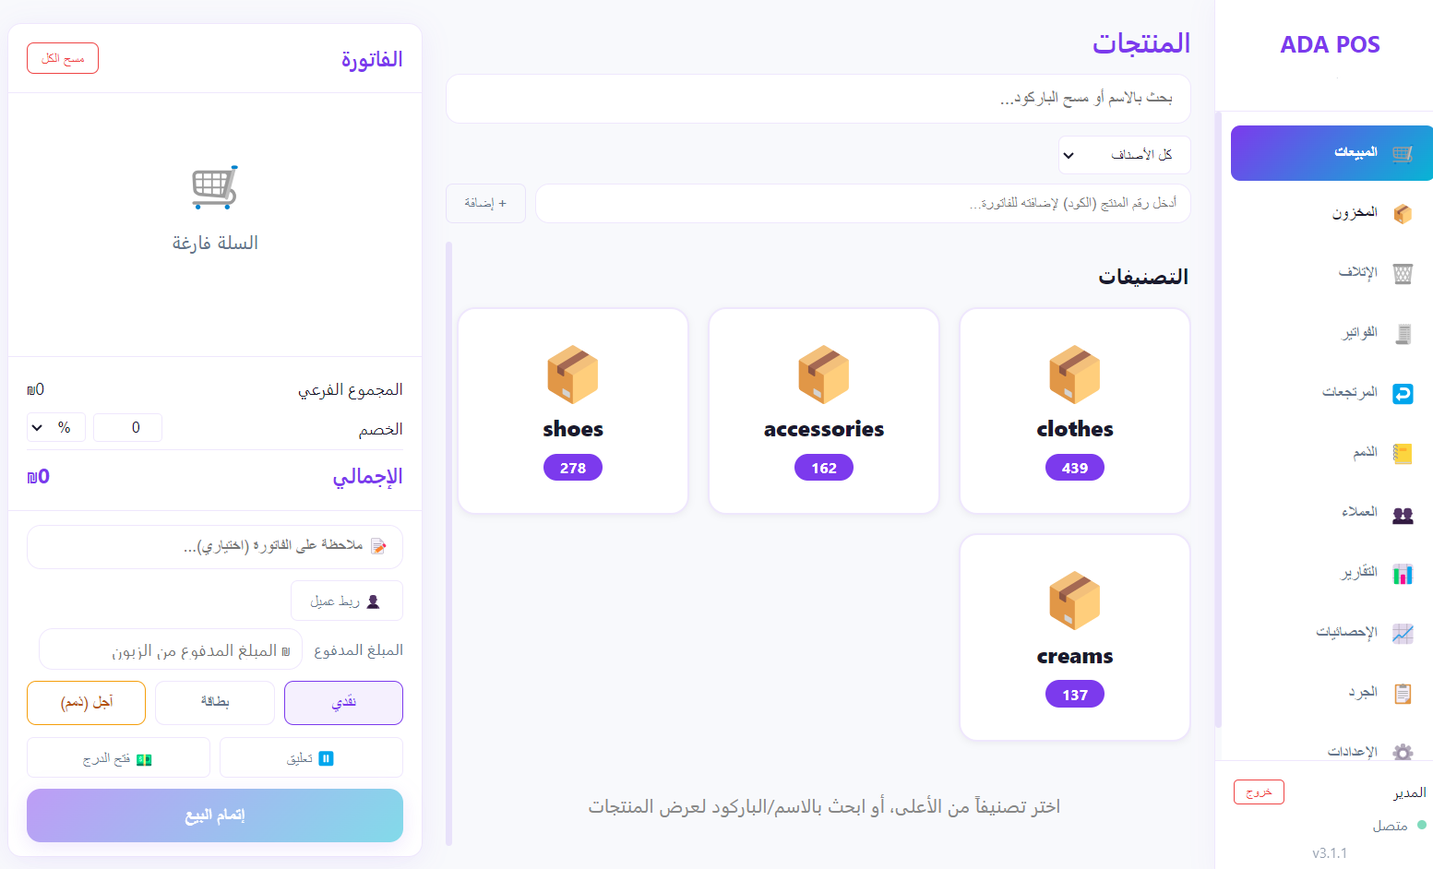
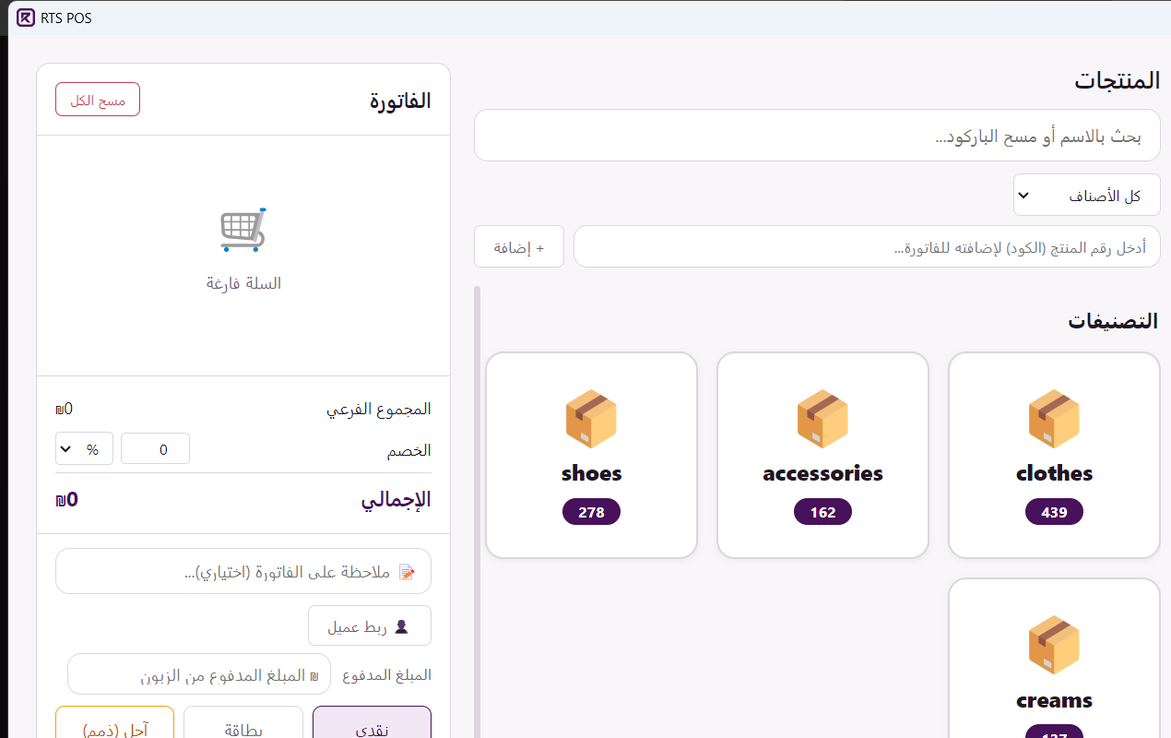
Launch RTS POS 4.0 on the company website
Copilot-Session: 97819282-63b3-4cd0-8490-9d07de37e0cd

diff --git a/public/app.js b/public/app.js
@@ -49,29 +49,30 @@ Object.assign(copy.ar, {
   contactTitle: "لنصنع شيئاً<br>يستحق الاستخدام.",
   contactText: "شاركنا احتياجك. سنفتح رسالتك في WhatsApp لتراجعها قبل الإرسال.",
   fieldRequired: "أدخل قيمة صحيحة لهذا الحقل.",
-  heroNote: "واجهة التطبيق الحالية",
+  heroNote: "واجهة RTS POS الجديدة",
   sandboxTitle: "جرّب فكرة البيع حسب نشاطك",
   sectorCoverage: "للسوبرماركت، المحلات، المطاعم، المقاهي، متاجر الملابس، ومختلف الأنشطة التجارية.",
   faq2Q: "هل الصور من التطبيق الفعلي؟",
-  faq2A: "نعم، صور المعرض من تطبيق ADA POS الحالي. أما التجربة التفاعلية فهي مثال مبسط ولا تعالج أي عملية دفع.",
+  faq2A: "نعم، صورة المعرض من تطبيق RTS POS 4.0 الفعلي. أما التجربة التفاعلية فهي مثال مبسط ولا تعالج أي عملية دفع.",
   designExamplesAria: "أمثلة تصميم توضيحية",
   designExamplesTitle: "هوية واحدة.<br>تجربة متكاملة.",
   designExamplesText: "من واجهة الموقع إلى تفاصيل التطبيق، نصمم تجربة متناسقة على كل شاشة. تصورات توضيحية لما يمكن أن نبنيه لعلامتك.",
   sitePreviewTitle: "مكان واضح لعلامتك.",
   phonePreviewTitle: "مهمة اليوم",
   retry: "إعادة المحاولة",
-  actualAppAria: "لقطة شاشة فعلية من تطبيق ADA POS",
+  actualAppAria: "لقطة شاشة فعلية من تطبيق RTS POS",
   insideApp: "من داخل التطبيق",
   openImage: "عرض بالحجم الكامل",
   closeImage: "إغلاق",
-  galleryAria: "معرض لقطات فعلية من ADA POS",
+  galleryAria: "لقطة فعلية من تطبيق RTS POS",
   galleryTabsAria: "اختيار لقطة شاشة",
   galleryTag: "من داخل التطبيق",
   galleryTitle: "كل تفاصيل عملك.<br>في مكان واحد.",
-  galleryText: "المبيعات والفواتير والعملاء والمخزون والإعدادات. هذه لقطات فعلية من تطبيقنا، مع إخفاء بعض المعرّفات لحماية الخصوصية.",
+  galleryText: "واجهة بيع فعلية من RTS POS 4.0 بهويته الجديدة، مصممة للسرعة والوضوح أثناء العمل اليومي.",
   gallerySales: "المبيعات",
-  galleryCheckout: "الدفع",
-  gallerySettings: "الإعدادات",
+  downloadTitle: "RTS POS 4.0.",
+  downloadText: "هوية جديدة وواجهة تشغيل واضحة للمبيعات والمخزون والفواتير وإدارة نشاطك.",
+  downloadCta: "تنزيل RTS POS لـ Windows",
   mobilePreviewAria: "تصور توضيحي لتطبيق هاتف مخصص"
 });
 Object.assign(copy.en, {
@@ -86,36 +87,35 @@ Object.assign(copy.en, {
   contactTitle: "Let’s build something<br>worth using.",
   contactText: "Share what you need. We will open your message in WhatsApp so you can review it before sending.",
   fieldRequired: "Enter a valid value for this field.",
-  heroNote: "The current application",
+  heroNote: "The new RTS POS interface",
   sandboxTitle: "Explore a sales demo for your business",
   sectorCoverage: "For supermarkets, retail shops, restaurants, coffee shops, clothing stores, and businesses of every kind.",
   faq2Q: "Are these images from the real application?",
-  faq2A: "Yes. The gallery shows the current ADA POS application. The interactive sales demo is a simplified illustration and does not process payments.",
+  faq2A: "Yes. The gallery shows the real RTS POS 4.0 application. The interactive sales demo is a simplified illustration and does not process payments.",
   designExamplesAria: "Illustrative design examples",
   designExamplesTitle: "One identity.<br>Every screen.",
   designExamplesText: "From the website to the smallest app interaction, we design a connected experience. Illustrative concepts of what we can build for your brand.",
   sitePreviewTitle: "A clear place for your brand.",
   phonePreviewTitle: "Today’s task",
   retry: "Try again",
-  actualAppAria: "Actual ADA POS application screenshot",
+  actualAppAria: "Actual RTS POS application screenshot",
   insideApp: "Inside the actual app",
   openImage: "View full size",
   closeImage: "Close",
-  galleryAria: "Gallery of actual ADA POS screenshots",
+  galleryAria: "Actual RTS POS application screenshot",
   galleryTabsAria: "Choose a screenshot",
   galleryTag: "Inside the actual app",
   galleryTitle: "Your daily business.<br>In one place.",
-  galleryText: "Sales, invoices, customers, inventory, and settings. These are real application screens, with some identifiers obscured for privacy.",
+  galleryText: "A real RTS POS 4.0 sales interface in its new identity, designed for speed and clarity during daily work.",
   gallerySales: "Sales",
-  galleryCheckout: "Checkout",
-  gallerySettings: "Settings",
+  downloadTitle: "RTS POS 4.0.",
+  downloadText: "A new identity and a clear workspace for sales, inventory, invoices, and business operations.",
+  downloadCta: "Download RTS POS for Windows",
   mobilePreviewAria: "Illustrative custom mobile application preview"
 });
 sectorData.ar.other.discussion = "لن نفترض أي تفاصيل مسبقاً. أخبرنا كيف تسير عملياتك ونناقش ما يناسبها.";
 const screenshots = {
-  sales: { src: "/assets/pos-sales.png", ar: "لقطة شاشة فعلية من شاشة المبيعات في ADA POS", en: "Actual ADA POS sales screen screenshot" },
-  checkout: { src: "/assets/pos-checkout.png", ar: "لقطة شاشة فعلية من شاشة الدفع في ADA POS", en: "Actual ADA POS checkout screen screenshot" },
-  settings: { src: "/assets/pos-settings.png", ar: "لقطة شاشة فعلية من شاشة الإعدادات في ADA POS", en: "Actual ADA POS settings screen screenshot" }
+  sales: { src: "/assets/pos-sales.png", ar: "لقطة شاشة فعلية من شاشة المبيعات في RTS POS", en: "Actual RTS POS sales screen screenshot" }
 };
 let activeScreenshot = "sales";
 let dialogTrigger;
@@ -125,8 +125,8 @@ const subpageCopy = {
     en: { title: "RTS | Privacy", back: "Back to site", tag: "RTS · PRIVACY", heading: "Your privacy, clearly.", collectionH: "What does this site collect?", collection: "The public site uses no analytics or marketing cookies. Contact-form details are not stored on the site server; choosing to submit prepares a message and opens WhatsApp so you can review it before sending.", whatsappH: "WhatsApp", whatsapp: "Continuing from the contact form sends the message to WhatsApp, a third-party service governed by its own privacy policy. Do not submit the form if you do not want to share its content through WhatsApp.", cookiesH: "Cookies and the admin session", cookies: "The public site sets no cookies. The private admin area uses a necessary administrative session cookie to keep an administrator signed in.", hostingH: "Hosting", hosting: "Cloudflare processes normal connection and security data, including IP address, to serve and protect the site. We do not use this for marketing analytics.", updatesH: "Policy updates", updates: "We may update this page if the site’s operation changes. The updated version will be published here.", return: "Back to RTS", privacy: "Privacy" }
   },
   download: {
-    ar: { title: "RTS | تنزيل ADA POS", back: "العودة للموقع", tag: "RTS · WINDOWS", heading: "تنزيل ADA POS.", installerH: "ملف التثبيت الحالي", installer: "تجري إعادة تقديم العلامة تحت RTS. برنامج Windows الحالي يحمل اسم ADA POS. حجم ملف التثبيت يقارب 731 MiB؛ قد يستغرق التنزيل وقتاً حسب اتصالك.", download: "تنزيل ADA POS لـ Windows", beforeH: "قبل المتابعة", before: "هذا التنزيل مخصص لـ Windows فقط. إذا حظر Windows الملف أو ظهرت لك رسالة أمان، تواصل مع الدعم قبل المتابعة. لا نوصي بتعطيل حماية Windows.", return: "العودة إلى RTS", privacy: "الخصوصية", retry: "إعادة المحاولة" },
-    en: { title: "RTS | Download ADA POS", back: "Back to site", tag: "RTS · WINDOWS", heading: "Download ADA POS.", installerH: "The current installer", installer: "RTS is presenting the brand anew. The current Windows program is named ADA POS. The installer is about 731 MiB, so download time depends on your connection.", download: "Download ADA POS for Windows", beforeH: "Before you continue", before: "This download is for Windows only. If Windows blocks the file or shows a security message, contact support before proceeding. We do not recommend disabling Windows protection.", return: "Back to RTS", privacy: "Privacy", retry: "Try again" }
+    ar: { title: "RTS | تنزيل RTS POS", back: "العودة للموقع", tag: "RTS · WINDOWS", heading: "تنزيل RTS POS.", installerH: "الإصدار 4.0 لنظام Windows", installer: "هوية RTS الجديدة، وواجهة تشغيل أكثر وضوحاً، مع الحفاظ على بياناتك عند الترقية. حجم ملف التثبيت يقارب 192 MiB.", download: "تنزيل RTS POS لـ Windows", beforeH: "قبل المتابعة", before: "هذا التنزيل مخصص لـ Windows فقط. إذا حظر Windows الملف أو ظهرت لك رسالة أمان، تواصل مع الدعم قبل المتابعة. لا نوصي بتعطيل حماية Windows.", return: "العودة إلى RTS", privacy: "الخصوصية", retry: "إعادة المحاولة" },
+    en: { title: "RTS | Download RTS POS", back: "Back to site", tag: "RTS · WINDOWS", heading: "Download RTS POS.", installerH: "Version 4.0 for Windows", installer: "The new RTS identity and a clearer workspace, while preserving your data during upgrades. The installer is approximately 192 MiB.", download: "Download RTS POS for Windows", beforeH: "Before you continue", before: "This download is for Windows only. If Windows blocks the file or shows a security message, contact support before proceeding. We do not recommend disabling Windows protection.", return: "Back to RTS", privacy: "Privacy", retry: "Try again" }
   }
 };
 

diff --git a/public/index.html b/public/index.html
@@ -48,13 +48,13 @@
         </div>
         <p class="settings-status" role="status" aria-live="polite" data-i18n="settingsLoading">جارٍ تجهيز طرق التواصل…</p><button id="settings-retry" type="button" hidden>إعادة المحاولة</button>
       </div>
-      <div class="hero-visual actual-app" aria-label="Actual ADA POS application screenshot" data-i18n-aria="actualAppAria">
+      <div class="hero-visual actual-app" aria-label="Actual RTS POS application screenshot" data-i18n-aria="actualAppAria">
         <img class="hero-watermark" src="/assets/rts-mark.svg" alt="" aria-hidden="true">
         <span class="r-beam beam-one" aria-hidden="true"></span><span class="r-beam beam-two" aria-hidden="true"></span>
-        <div class="hero-note"><span data-i18n="insideApp">من داخل التطبيق</span><b data-i18n="heroNote">واجهة ADA POS الحالية</b></div>
+        <div class="hero-note"><span data-i18n="insideApp">من داخل التطبيق</span><b data-i18n="heroNote">واجهة RTS POS الجديدة</b></div>
         <button class="screenshot-frame hero-screenshot" type="button" data-shot="sales" data-dialog-open aria-haspopup="dialog">
-          <span class="app-frame-top"><i></i><i></i><i></i><b>ADA POS</b><em data-i18n="openImage">عرض بالحجم الكامل</em></span>
-          <img src="/assets/pos-sales.png" width="1553" height="942" fetchpriority="high" alt="لقطة شاشة فعلية من شاشة المبيعات في ADA POS">
+          <span class="app-frame-top"><i></i><i></i><i></i><b>RTS POS</b><em data-i18n="openImage">عرض بالحجم الكامل</em></span>
+          <img src="/assets/pos-sales.png" width="1270" height="800" fetchpriority="high" alt="لقطة شاشة فعلية من شاشة المبيعات في RTS POS">
         </button>
       </div>
     </section>
@@ -87,17 +87,15 @@
     </section>
 
     <section class="pos-section" id="pos">
-      <section class="actual-gallery" aria-label="Actual ADA POS app screenshots" data-i18n-aria="galleryAria">
-        <div><p class="section-tag" data-i18n="galleryTag">من داخل التطبيق</p><h2 data-i18n="galleryTitle">كل تفاصيل عملك.<br>في مكان واحد.</h2><p data-i18n="galleryText">المبيعات، الفواتير، العملاء، المخزون والإعدادات. شاهد لقطات فعلية من تطبيقنا، مع إخفاء بعض المعرّفات لحماية الخصوصية.</p></div>
+      <section class="actual-gallery" aria-label="Actual RTS POS app screenshot" data-i18n-aria="galleryAria">
+        <div><p class="section-tag" data-i18n="galleryTag">من داخل التطبيق</p><h2 data-i18n="galleryTitle">كل تفاصيل عملك.<br>في مكان واحد.</h2><p data-i18n="galleryText">واجهة بيع فعلية من RTS POS 4.0 بهويته الجديدة، مصممة للسرعة والوضوح أثناء العمل اليومي.</p></div>
         <div class="gallery-controls" role="tablist" aria-label="POS screenshots" data-i18n-aria="galleryTabsAria">
           <button id="shot-sales" type="button" role="tab" aria-controls="gallery-panel" aria-selected="true" data-shot="sales" data-i18n="gallerySales">المبيعات</button>
-          <button id="shot-checkout" type="button" role="tab" aria-controls="gallery-panel" aria-selected="false" data-shot="checkout" data-i18n="galleryCheckout">الدفع</button>
-          <button id="shot-settings" type="button" role="tab" aria-controls="gallery-panel" aria-selected="false" data-shot="settings" data-i18n="gallerySettings">الإعدادات</button>
         </div>
         <div id="gallery-panel" class="gallery-panel" role="tabpanel" aria-labelledby="shot-sales">
           <button class="screenshot-frame gallery-screen" type="button" data-shot="sales" data-dialog-open aria-haspopup="dialog">
-            <span class="app-frame-top"><i></i><i></i><i></i><b>ADA POS</b><em data-i18n="openImage">عرض بالحجم الكامل</em></span>
-            <img id="gallery-image" src="/assets/pos-sales.png" width="1553" height="942" loading="lazy" alt="لقطة شاشة فعلية من شاشة المبيعات في ADA POS">
+            <span class="app-frame-top"><i></i><i></i><i></i><b>RTS POS</b><em data-i18n="openImage">عرض بالحجم الكامل</em></span>
+            <img id="gallery-image" src="/assets/pos-sales.png" width="1270" height="800" loading="lazy" alt="لقطة شاشة فعلية من شاشة المبيعات في RTS POS">
           </button>
         </div>
       </section>
@@ -157,15 +155,15 @@
     </section>
 
     <section class="download-strip" id="download">
-      <div><p class="section-tag" data-i18n="downloadTag">لأصحاب Windows</p><h2 data-i18n="downloadTitle">برنامج ADA POS الحالي.</h2><p data-i18n="downloadText">تجري إعادة تقديم العلامة تحت RTS. ملف التثبيت الحالي يحمل اسم ADA POS وهو متاح لنظام Windows فقط.</p></div>
-      <div><a class="button button-accent" href="/download-POS/" data-i18n="downloadCta">تنزيل ADA POS لـ Windows</a><small data-i18n="downloadHelp">إذا حظر Windows الملف، تواصل مع الدعم قبل المتابعة. لا نوصي بتعطيل الحماية.</small></div>
+      <div><p class="section-tag" data-i18n="downloadTag">لأصحاب Windows</p><h2 data-i18n="downloadTitle">RTS POS 4.0.</h2><p data-i18n="downloadText">هوية جديدة وواجهة تشغيل واضحة للمبيعات والمخزون والفواتير وإدارة نشاطك.</p></div>
+      <div><a class="button button-accent" href="/download-POS/" data-i18n="downloadCta">تنزيل RTS POS لـ Windows</a><small data-i18n="downloadHelp">إذا حظر Windows الملف، تواصل مع الدعم قبل المتابعة. لا نوصي بتعطيل الحماية.</small></div>
     </section>
 
     <section class="faq section">
       <div><h2 data-i18n="faqTitle">لنبدأ بوضوح.</h2></div>
       <div class="faq-list">
         <details><summary data-i18n="faq1Q">هل يمكنني طلب موقع أو تطبيق فقط؟</summary><p data-i18n="faq1A">نعم. نبدأ بالخدمة التي يحتاجها عملك، سواء كانت موقعاً أو تطبيقاً أو أداة مكتبية.</p></details>
-        <details><summary data-i18n="faq2Q">هل الصور من التطبيق الفعلي؟</summary><p data-i18n="faq2A">نعم، صور المعرض من تطبيق ADA POS الحالي. أما التجربة التفاعلية فهي مثال مبسط ولا تعالج أي عملية دفع.</p></details>
+        <details><summary data-i18n="faq2Q">هل الصور من التطبيق الفعلي؟</summary><p data-i18n="faq2A">نعم، صورة المعرض من تطبيق RTS POS 4.0 الفعلي. أما التجربة التفاعلية فهي مثال مبسط ولا تعالج أي عملية دفع.</p></details>
         <details><summary data-i18n="faq3Q">هل تطبيقات الهاتف تعني توفر POS على iOS أو Android؟</summary><p data-i18n="faq3A">تطبيقات الهاتف هي خدمة تطوير مخصصة. لا يعني ذلك وعداً بتوفر برنامج نقطة البيع للتثبيت على الهاتف.</p></details>
       </div>
     </section>

diff --git a/public/download-POS/index.html b/public/download-POS/index.html
@@ -3,14 +3,14 @@
 <head>
   <meta charset="UTF-8">
   <meta name="viewport" content="width=device-width, initial-scale=1.0">
-  <meta name="description" content="تنزيل ADA POS الحالي لنظام Windows من RTS Royal Technology Solutions.">
-  <meta property="og:title" content="RTS | تنزيل ADA POS">
+  <meta name="description" content="تنزيل RTS POS 4.0 لنظام Windows من RTS Royal Technology Solutions.">
+  <meta property="og:title" content="RTS | تنزيل RTS POS">
   <meta property="og:url" content="https://rts-royal.pages.dev/download-POS/">
   <meta property="og:image" content="https://rts-royal.pages.dev/assets/og.png">
   <link rel="canonical" href="https://rts-royal.pages.dev/download-POS/">
   <link rel="icon" href="/assets/rts-mark.svg" type="image/svg+xml">
   <link rel="stylesheet" href="/styles.css">
-  <title>RTS | تنزيل ADA POS</title>
+  <title>RTS | تنزيل RTS POS</title>
 </head>
 <body data-page="download">
   <header class="site-header">
@@ -19,10 +19,10 @@
   </header>
   <main class="privacy-page section">
     <p class="section-tag" data-i18n="tag">RTS · WINDOWS</p>
-    <h1 data-i18n="heading">تنزيل ADA POS.</h1>
+    <h1 data-i18n="heading">تنزيل RTS POS.</h1>
     <div class="privacy-copy">
-      <h2 data-i18n="installerH">ملف التثبيت الحالي</h2><p data-i18n="installer">تجري إعادة تقديم العلامة تحت RTS. برنامج Windows الحالي يحمل اسم ADA POS. حجم ملف التثبيت يقارب 731 MiB؛ قد يستغرق التنزيل وقتاً حسب اتصالك.</p>
-      <p><a id="download-link" class="button button-dark" aria-disabled="true" data-i18n="download">تنزيل ADA POS لـ Windows</a></p>
+      <h2 data-i18n="installerH">الإصدار 4.0 لنظام Windows</h2><p data-i18n="installer">هوية RTS الجديدة، وواجهة تشغيل أكثر وضوحاً، مع الحفاظ على بياناتك عند الترقية. حجم ملف التثبيت يقارب 192 MiB.</p>
+      <p><a id="download-link" class="button button-dark" aria-disabled="true" data-i18n="download">تنزيل RTS POS لـ Windows</a></p>
       <p class="settings-status" role="status" aria-live="polite"></p><button id="settings-retry" type="button" hidden>إعادة المحاولة</button>
       <h2 data-i18n="beforeH">قبل المتابعة</h2><p data-i18n="before">هذا التنزيل مخصص لـ Windows فقط. إذا حظر Windows الملف أو ظهرت لك رسالة أمان، تواصل مع الدعم قبل المتابعة. لا نوصي بتعطيل حماية Windows.</p>
       <p><a class="text-link" href="/" data-i18n="return">العودة إلى RTS</a></p>

diff --git a/functions/_lib/constants.js b/functions/_lib/constants.js
@@ -5,7 +5,7 @@ export const PASSWORD_ITERATIONS = 100000;
 export const PASSWORD_DERIVED_BITS = 256;
 
 export const DEFAULT_DOWNLOAD_URL =
-  "https://github.com/alsadiayham-sketch/ada-pos-releases/releases/latest/download/ADA-POS-Setup.exe";
+  "https://github.com/alsadiayham-sketch/ada-pos-releases/releases/latest/download/RTS-POS-Setup.exe";
 
 export { DOWNLOAD_URL_REGEX, PHONE_DIGITS_REGEX } from "../../public/settings-policy.js";
 

diff --git a/public/settings-policy.js b/public/settings-policy.js
@@ -1,4 +1,4 @@
 export const DOWNLOAD_URL_REGEX =
-  /^https:\/\/github\.com\/alsadiayham-sketch\/ada-pos-releases\/releases\/(?:latest\/download|download\/v[0-9A-Za-z._-]+)\/ADA-POS-Setup\.exe$/;
+  /^https:\/\/github\.com\/alsadiayham-sketch\/ada-pos-releases\/releases\/(?:latest\/download|download\/v[0-9A-Za-z._-]+)\/RTS-POS-Setup\.exe$/;
 
 export const PHONE_DIGITS_REGEX = /^[1-9]\d{7,14}$/;

diff --git a/README.md b/README.md
@@ -49,9 +49,9 @@ passwords, database exports, and `.wrangler/` out of source control.
 
 ## Product and assets
 
-Actual POS screenshots were supplied by the business; public copies obscure
-visible customer/store identifiers. The application and current installer still
-use the name **ADA POS**. The website's RTS identity does not modify that binary.
+The website showcases the real **RTS POS 4.0** Windows application. Public
+screenshots avoid customer/store identifiers, and the release download is restricted
+to the approved RTS installer in the compatibility release repository.
 The separate interactive sector demo is illustrative and never takes payments.
 
 Fonts are locally hosted Manrope and Noto Sans Arabic, with their OFL license

diff --git a/PRODUCT.md b/PRODUCT.md
@@ -33,7 +33,7 @@ Never present an illustrative POS interface as a live customer system.
 - Show the business outcome and a concrete example together.
 - Distinguish custom software services from the existing POS product.
 - Make the entire Arabic and English experience equally usable.
-- Explain the current ADA-named Windows installer honestly during the RTS rebrand.
+- Present RTS POS as the production Windows point-of-sale product.
 - Keep administration private and separate from public marketing.
 
 ## Accessibility & Inclusion
